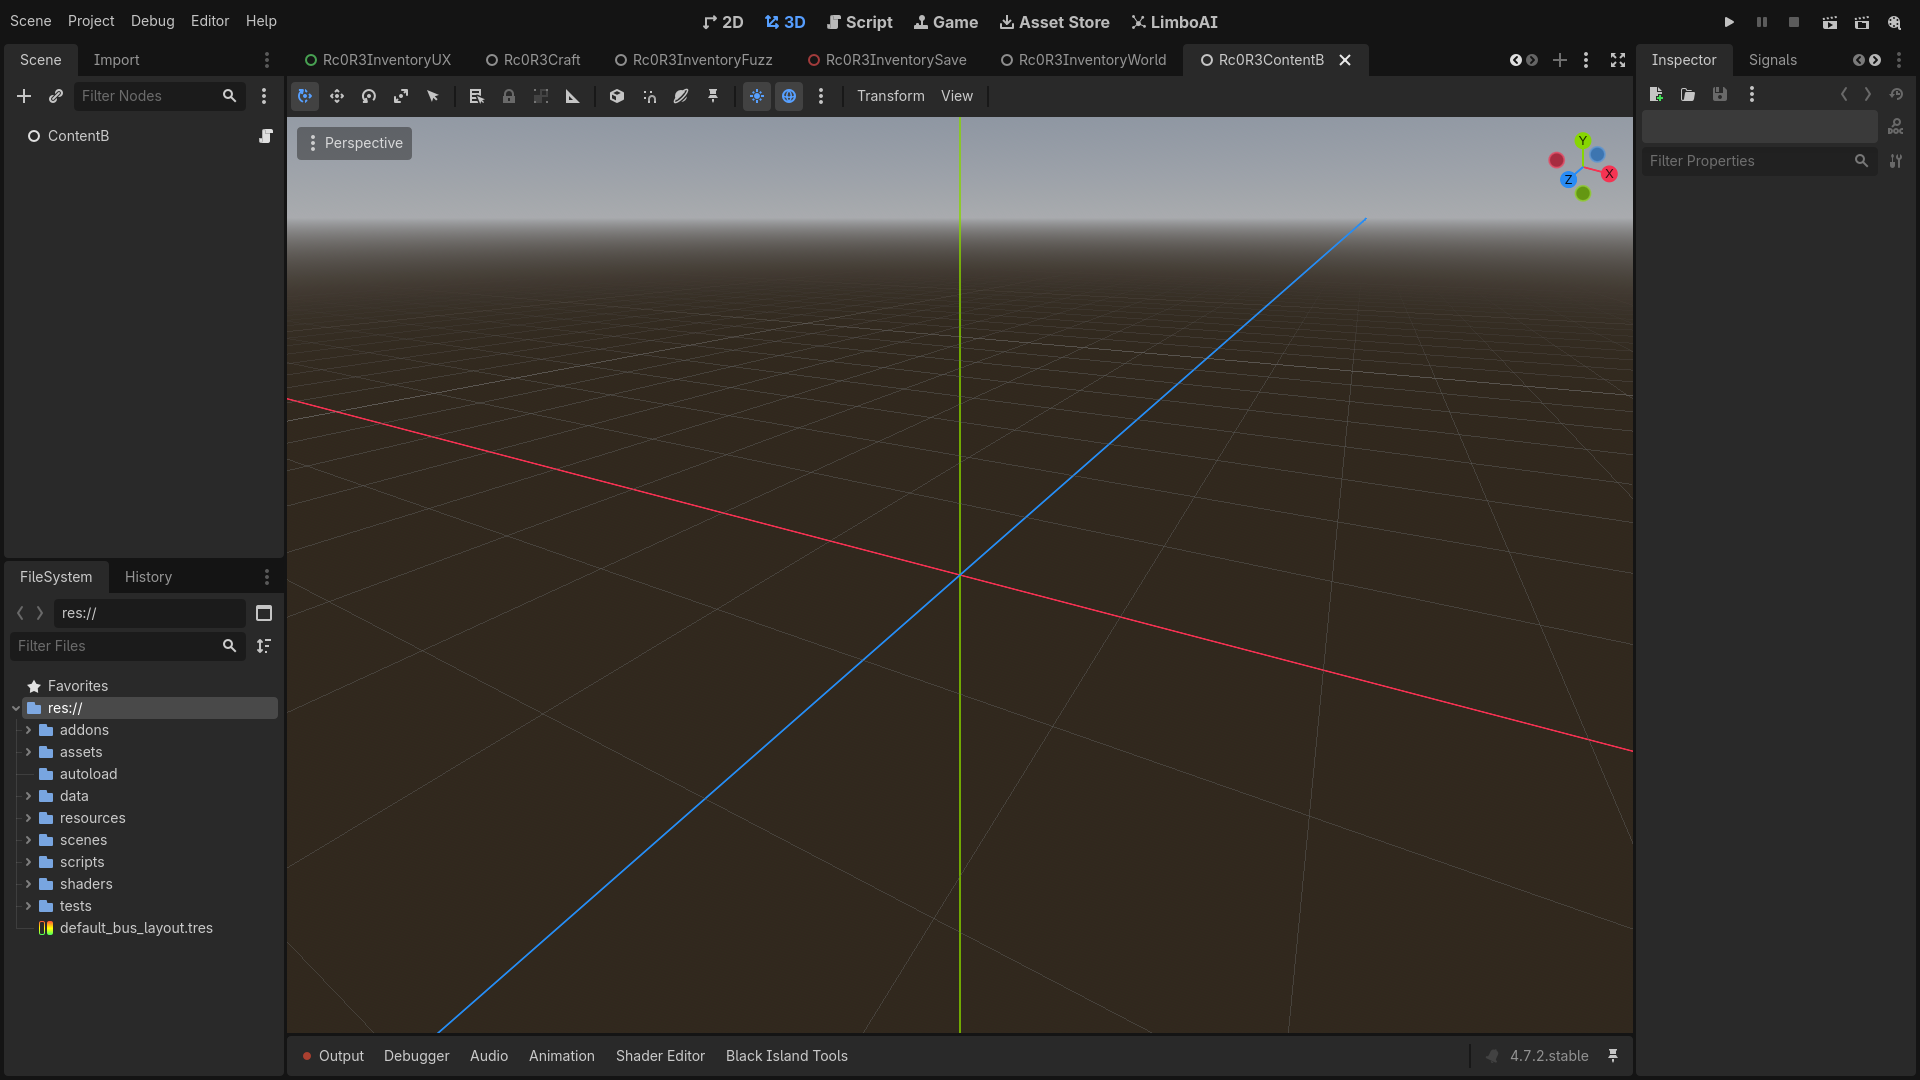
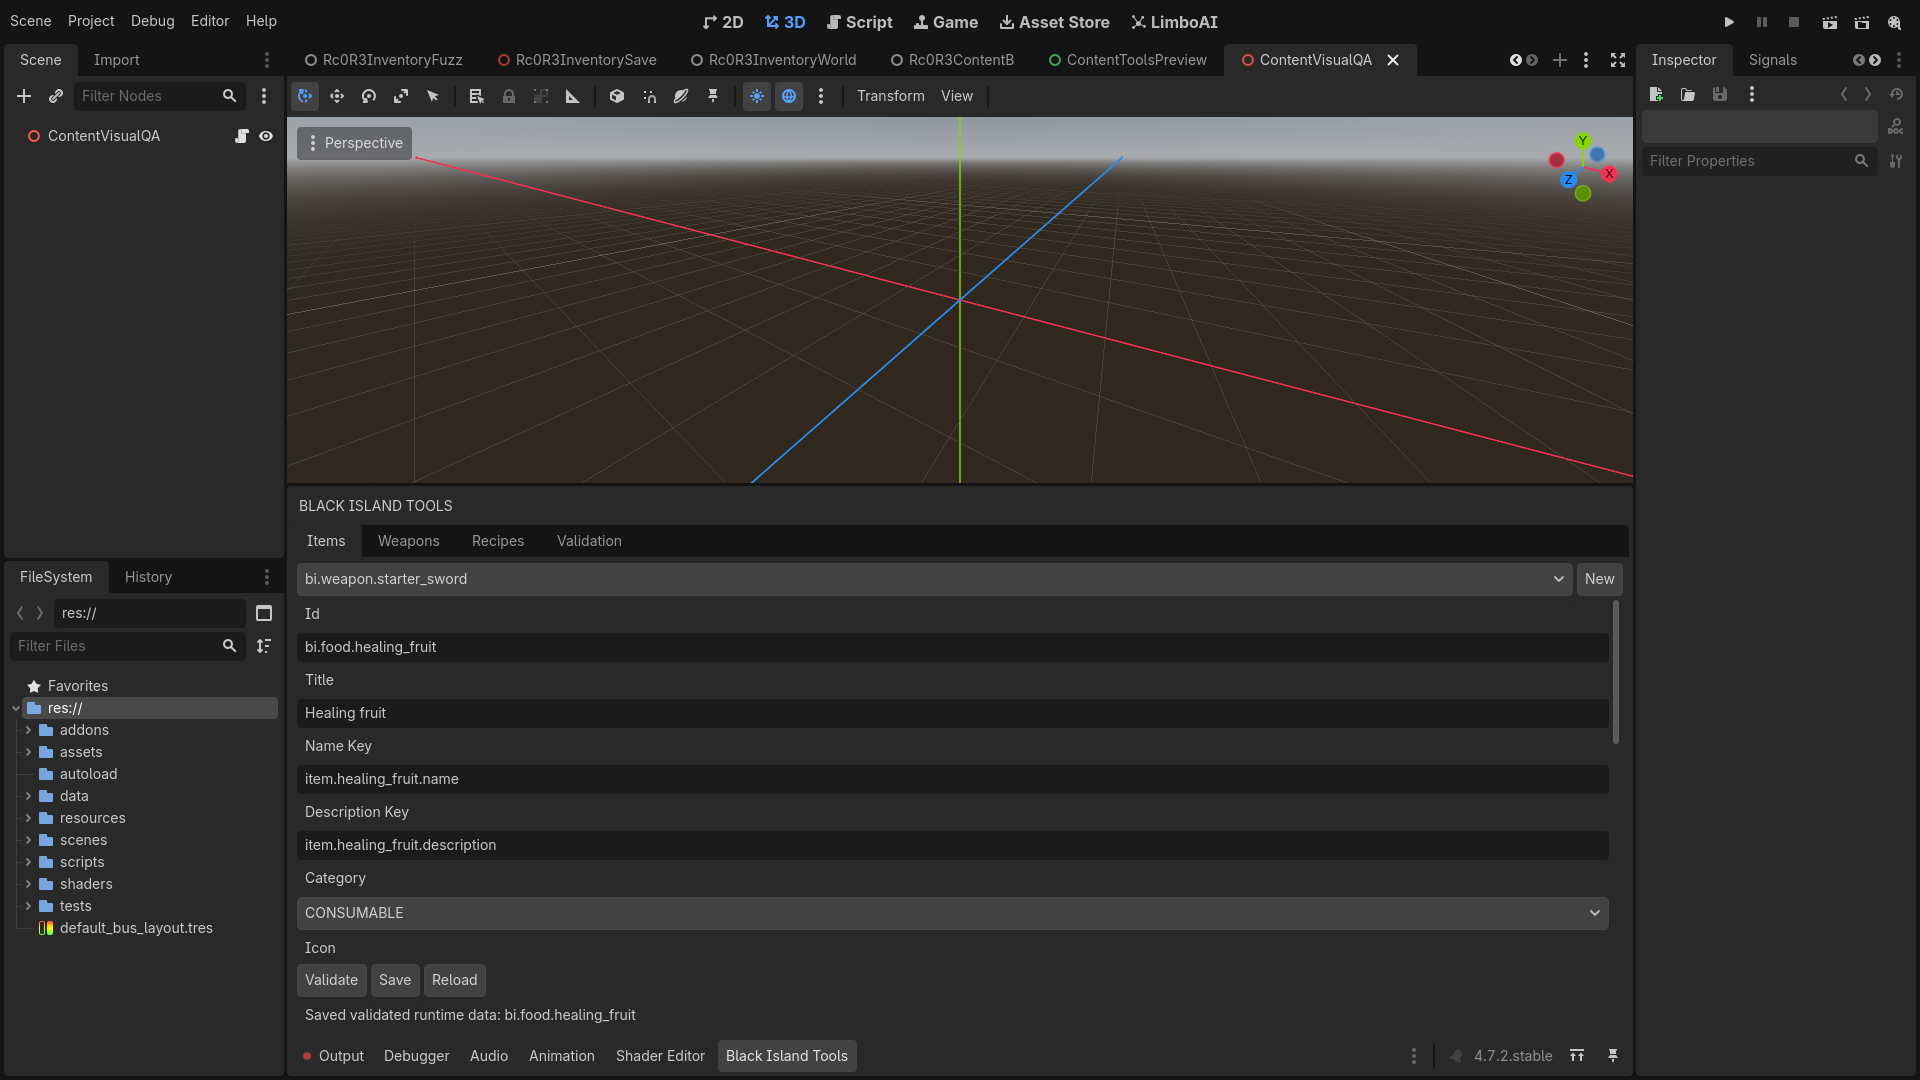
feat: add effect graph and modular weapon visuals

diff --git a/harness/build/S01-RC0-R3-C03.md b/harness/build/S01-RC0-R3-C03.md
@@ -7,3 +7,11 @@ Base5f63eb28e0da23f3733161b72c70fdc0995e3bb1. Branch codex/s01-rc0-r3-c03-conten
 Canonical runtime item JSON retains every prior ID and compatibility field, exposes localization keys/tags/modules; same C02 recipe JSON, no second crafting system. Editor-only BlackIslandTools structured forms: Items/Weapons/Recipes/Validation, module selection/properties, row add/remove, validated atomic single-file writes, stable ID rename rejection. Runtime never imports editor plugin. Shared validator detects duplicate/missing references, unknown schemas/modules/effect nodes, malformed collections and bounded DAGs. Independent safety review corrected malformed data handling, recursion and selected-group save validation.
 
 Focused headless CONTENT_A PASS8 (duplicates, missing output, future schema, old ID save restore, module/recipe load, no EditorPlugin); scripts/validate_content.sh PASS. Real editor opt-in QA creates bi.food.healing_fruit through Items form, emits icon field change, saves/reloads same runtime file; saves existing foundation recipe and runs global Validation PASS. Four dock screenshots versioned. LSP changed authoring scripts clean. Container driver reports unsupported VSync and Vulkan preview initialization failure while actual editor is Compatibility/llvmpipe; editor dock and runtime tests function. No project script errors. Not physical mobile validation.
+
+## C03-B
+
+C03-A checkpoint31d402e (panel/evidence follow-upad1a090). B protected4659b35/a03e34c/34d7615/d2e0b63. EffectGraph bounded serializable DAG, allowlisted semantic node types, iterative cycle checks, required parameter/ref validation and compiled cache; no effect Nodes or content scripts. EffectContext prepares detached values; EffectService publishes inventory/stat/hit changes through existing transaction boundary. Registered status/spawn/presentation hooks are seams, not full status/entity/VFX systems. Representative healing fruit authored by Tools now uses OnConsume→ModifyStat; basic and test weapon use OnHit→Damage, optional test fire event. Conditions tested true/false. Damage-only hit avoids inventory clone/revision mutation.
+
+WeaponDefinition/WeaponVisualProfile/WeaponTrailProfile catalogs share reviewed moveset resource template. Existing item IDs/legacy fields preserved. Six weapon classes accepted. Player rig created through Godot MCP scene edit. LPC layer retains upstream compositor/compatibility/legal metadata and no detached duplicate. Detached32px authored placeholder (original SVG) uses fixed horizontal yaw, real texture/pivot dimensions, four direction offsets, semantic front/back layering, curves and bounded reusable trail QuadMesh. No per-item scripts or per-frame mesh creation. Attack speed synchronizes body and combat; move modifier and critical stats integrated.
+
+Focused CONTENT_B PASS23assertions; PlayerC03Smoke and PlayerC02Smoke PASS. Independent visual/transaction review findings fixed: stale trail reset, pivot sign/size, event-seeded random conditions, LPC speed, trail texture. LSP8corechanged scripts clean after global dependency cache refresh. Godot MCP live weapon showcase0projecterrors/0projectwarnings, screenshot weapons-runtime.png. Actual editor snapshots now wait for editor layout restoration; earlier premature screenshots replaced. Items/Weapons/Recipes/Validation real dock visible and authored same runtime data; QA mirror harness exists but is not production runtime or editor dependency.
